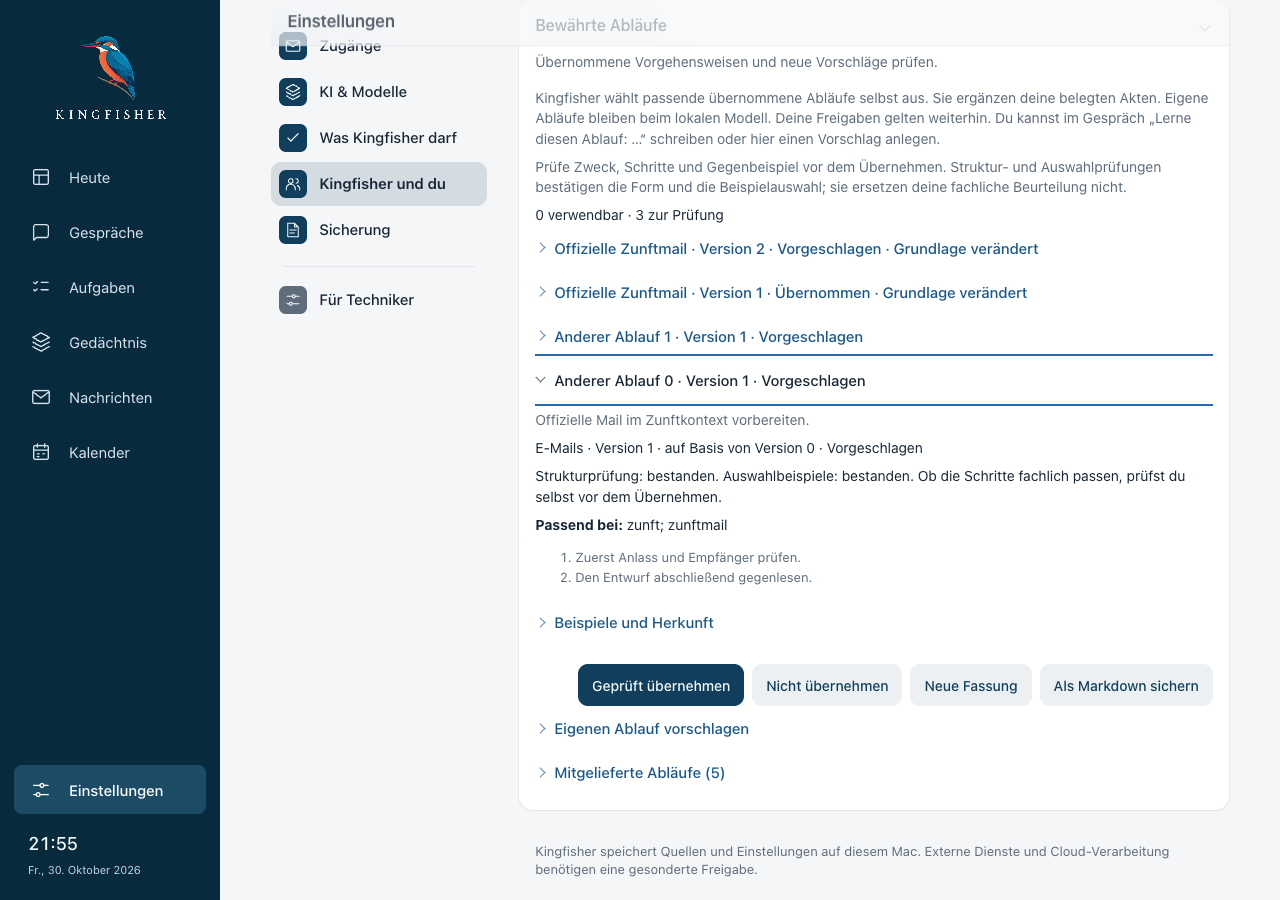
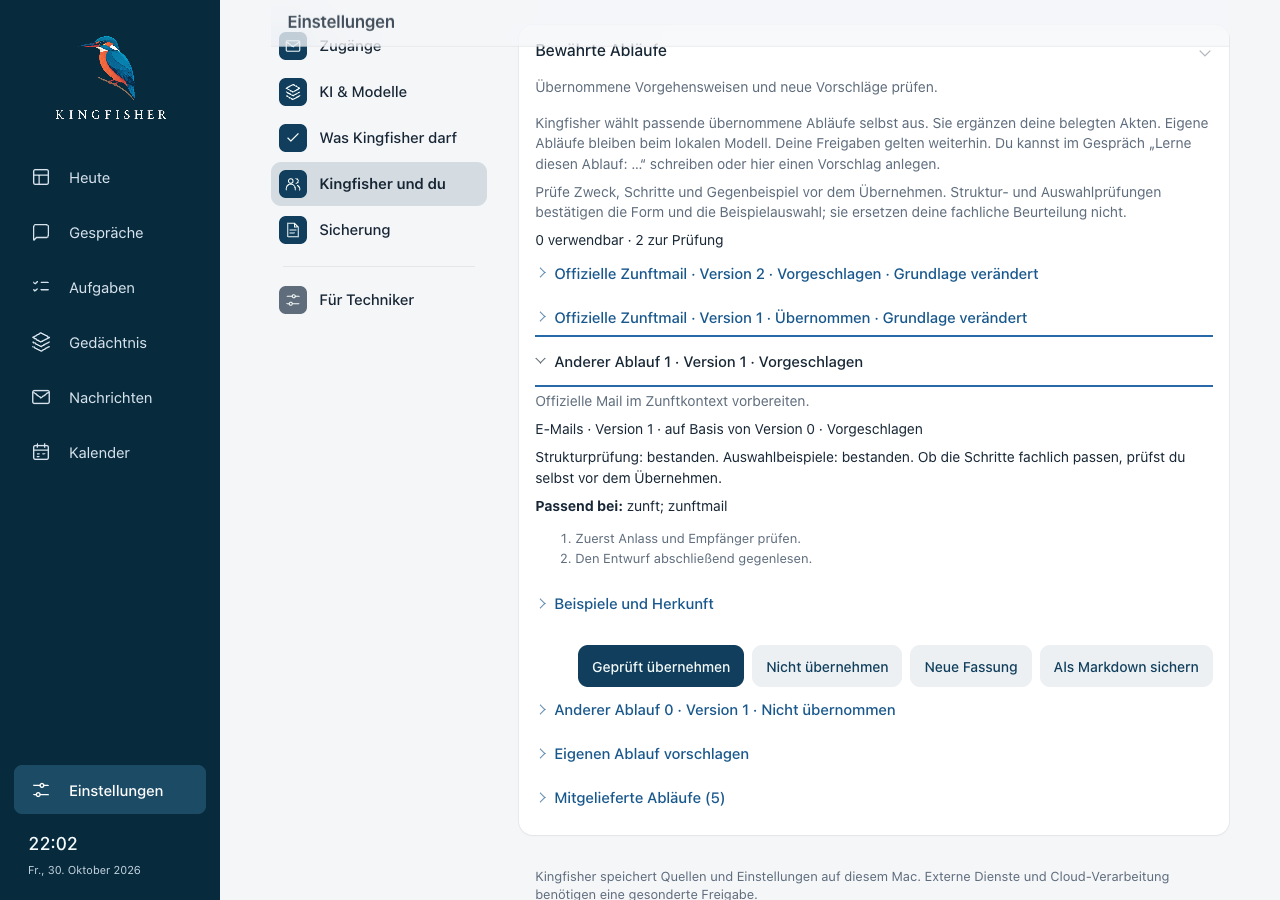
Direkten Prüfweg und unabhängige Korrektur belegen

diff --git a/docs/runs/2026-10-30-procedure-review-link/README.md b/docs/runs/2026-10-30-procedure-review-link/README.md
@@ -10,7 +10,7 @@ Basis: `bb94507493efab70d8835593069ac3a73d366823` (PR #103, inzwischen gemergt).
 
 - Tatsächliche FastAPI-App und gebautes React-Frontend, ausschließlich künstlicher Bestand auf `127.0.0.1:8893`. Persönliches Kingfisher auf Port 8890 blieb unberührt. Synthetischer Provider; keine Qualitätsbehauptung über Qwen oder echte Mails.
 - Vorher: Gesprächsknopf führte nur zur Bibliothek, alle drei Vorschläge waren geschlossen. Sechs neue Regressionsprüfungen zunächst rot; danach grün. Weitere Gegenfälle für den erneuten Sprung in die geschlossene Bibliothek und eine verzögerte native Schließmeldung ebenfalls rot→grün.
-- Gesamte Oberfläche: `npm --prefix app/kingfisher test` → **964/964 bestanden** (vorher 955). Produktionsbuild bestanden; bekannte Größenwarnung des Bundlers. `python3 scripts/check_asset_manifest.py` → **11 Dateien, 14 Icons bestanden**. Keine neue Backendvollsuite, weil ausschließlich Oberfläche geändert; PR #103 hat einen getrennten vollständigen Backendnachweis.
+- Gesamte Oberfläche: `npm --prefix app/kingfisher test` → **965/965 bestanden** (vorher 955). Produktionsbuild bestanden; bekannte Größenwarnung des Bundlers. `python3 scripts/check_asset_manifest.py` → **11 Dateien, 14 Icons bestanden**. Keine neue Backendvollsuite, weil ausschließlich Oberfläche geändert; PR #103 hat einen getrennten vollständigen Backendnachweis.
 - Browser: Gespräch → exakter Vorschlag → frische Details → ausdrückliche Übernahme → erneut gelesen „Übernommen“. Rückweg erhält den bereits eingegebenen Gesprächsentwurf.
 - Unbekannte ID öffnet keinen anderen Eintrag und ruft keine unbekannte Detailroute ab. Wechsel zweier IDs auf derselben Einstellungsseite sowie zuvor manuell geschlossene Bibliothek geprüft.
 - Simulierter Detailfehler HTTP 503: sichtbarer Fehler, keine Übernahme möglich; „Erneut laden“ liest die wirkliche Fassung frisch.
@@ -32,6 +32,8 @@ Basis: `bb94507493efab70d8835593069ac3a73d366823` (PR #103, inzwischen gemergt).
 
 Ein unabhängiges Schlussreview der gesamten UI-Änderung (Basis `bb94507`, Kopf `31b1d5f`) fand einen wichtigen Randfall: Wird eine bereits manuell geöffnete Zeile erst nachträglich zum Navigationsziel, wurde ihr alter Detailstand weiter angezeigt. Der Server verhindert eine unzulässige Übernahme weiterhin, aber die Prüfung muss vor der Handlung frisch sein.
 
-Gezielte Regression zunächst **1 statt 2 Detailabrufe**, nach Ergänzung der Zielabhängigkeit grün. Die Prüfung hält die zweite Antwort zurück und belegt zusätzlich: Während des neuen Lesens ist keine Übernahme sichtbar. Alle acht direkten Prüfwegtests bestanden. Keine kritischen oder kleineren Befunde; eine Korrekturrunde, kein zweites Review.
+Gezielte Regression zunächst **1 statt 2 Detailabrufe**, nach Ergänzung der Zielabhängigkeit grün. Die Prüfung hält die zweite Antwort zurück und belegt zusätzlich: Während des neuen Lesens ist keine Übernahme sichtbar. Alle acht direkten Prüfwegtests bestanden. Anschließend im wirklichen Browser wiederholt: Vorschlag manuell öffnen, ihn serverseitig zurückweisen, dieselbe offene Zeile gezielt ansteuern, zweite Antwort anhalten. Zwei Detailabrufe, kein Übernehmen während des Neulesens, danach „Nicht übernommen“ sichtbar. Tastatur, Fokus, beide Fensterbreiten und Konsole auch nach diesem Fix erneut bestanden.
+
+Abschließend geprüfter Produktstand nach Angleich mit `origin/main`: `76b3d92dd3d1a541bb709a82f7cfa1d28d070085`; gesamte UI 965/965, Build und Assetvertrag grün. Keine kritischen oder kleineren Befunde; eine Korrekturrunde, kein zweites Review.
 
 Abgegrenzte Abnahmen: Das Review bewertet nicht den echten Mac, reale Quellen oder die Alltagswoche. Die bereits vorhandene Entwurfsbehandlung des allgemeinen Vorlageneditors wurde nicht umgebaut; dieser Schritt belegt den Gesprächsentwurf beim Rückweg und die direkte Vorschlagsprüfung, keinen allgemeinen Editor-Umbau.

diff --git a/docs/superpowers/plans/2026-10-30-procedure-review-link.md b/docs/superpowers/plans/2026-10-30-procedure-review-link.md
@@ -29,8 +29,8 @@
 Files: `app/kingfisher/src/App.tsx`, `app/kingfisher/src/ProcedureSettings.tsx`, `app/kingfisher/tests/conversation-workspace.test.mjs`, neue `app/kingfisher/tests/procedure-review.test.mjs`, `docs/67-bewaehrte-ablaeufe.md`, `docs/runs/2026-10-30-procedure-review-link/README.md`.
 Interfaces: vorhandene `procedure_proposal.id`, `navigate(path)`, GET `/api/v1/procedures` und GET `/api/v1/procedures/{id}`. Kein neuer Backendvertrag.
 
-- [ ] Regression zuerst: tatsächlicher Gesprächsknopf transportiert kodierte ID; Zielzeile öffnet und lädt Detail, andere Zeilen bleiben geschlossen; fehlende ID zeigt Hinweis; normales Öffnen kompakt. Render-/Navigationsprüfungen im bestehenden Vite-Hook-Teststil, Browsergegenfall vor Änderung.
-- [ ] Run `node --experimental-strip-types --test app/kingfisher/tests/conversation-workspace.test.mjs app/kingfisher/tests/procedure-review.test.mjs`; neue Zielprüfungen müssen rot sein.
-- [ ] URL-Ziel in ProcedureSettings bei Laden und popstate neu lesen. Bestehende ProcedureRow um kontrolliertes Öffnen und Fokus auf die Zielzusammenfassung ergänzen; Detail-/Quellen-/Bestätigungsprüfungen wiederverwenden.
-- [ ] Gesamte UI-Suite, Produktionsbuild und Assetvertrag. Reale Browserinteraktion bei 900/1.280 px: Gespräch→Vorschlag→Details→bestätigen→Rückweg mit Entwurf; unbekanntes Ziel, Fehler beim Detailladen und Wechsel zwischen Zielen prüfen. Keine Konsolenfehler/Überläufe.
-- [ ] Ein unabhängiges Review, wichtige Befunde einmal mit Rot/Grün beheben; Nachweis und eigener PR. Backendvollsuite nicht erneut ausführen, solange kein Backendcode geändert wird.
+- [x] Regression zuerst: tatsächlicher Gesprächsknopf transportiert kodierte ID; Zielzeile öffnet und lädt Detail, andere Zeilen bleiben geschlossen; fehlende ID zeigt Hinweis; normales Öffnen kompakt. Render-/Navigationsprüfungen im bestehenden Vite-Hook-Teststil, Browsergegenfall vor Änderung.
+- [x] Run `node --experimental-strip-types --test app/kingfisher/tests/conversation-workspace.test.mjs app/kingfisher/tests/procedure-review.test.mjs`; neue Zielprüfungen müssen rot sein.
+- [x] URL-Ziel in ProcedureSettings bei Laden und popstate neu lesen. Bestehende ProcedureRow um kontrolliertes Öffnen und Fokus auf die Zielzusammenfassung ergänzen; Detail-/Quellen-/Bestätigungsprüfungen wiederverwenden.
+- [x] Gesamte UI-Suite, Produktionsbuild und Assetvertrag. Reale Browserinteraktion bei 900/1.280 px: Gespräch→Vorschlag→Details→bestätigen→Rückweg mit Entwurf; unbekanntes Ziel, Fehler beim Detailladen und Wechsel zwischen Zielen prüfen. Keine Konsolenfehler/Überläufe.
+- [x] Ein unabhängiges Review, wichtige Befunde einmal mit Rot/Grün beheben; Nachweis und eigener PR. Backendvollsuite nicht erneut ausführen, solange kein Backendcode geändert wird.

diff --git a/docs/68-gedaechtnis-abschluss.md b/docs/68-gedaechtnis-abschluss.md
@@ -77,6 +77,12 @@ Umgesetzter begrenzter Reparaturschritt: dauerhafte, ausdrücklich formulierte
 Ablaufkorrekturen ohne feste Befehlsform erkennen und bereits offene passende
 Lernvorschläge mitfinden. Keine neue Ansicht, Modellrolle oder Lernberechtigung:
 [Prüfungen und Grenzen](runs/2026-10-30-procedure-corrections/README.md).
-Als nächster konkreter Bedienpunkt soll „Ablauf prüfen“ den betreffenden
-Vorschlag direkt öffnen. Modelllauf, echte Quellenprobe und Mac-Fenster bleiben
-gesonderte Abnahmen.
+Der direkte Bedienweg „Ablauf prüfen“ öffnet jetzt den genau bezeichneten
+Vorschlag mit frisch gelesenen Schritten und erhaltener Gesprächseingabe beim
+Rückweg: [UI-Nachweis und Review](runs/2026-10-30-procedure-review-link/README.md).
+Modelllauf, echte Quellenprobe und Mac-Fenster bleiben gesonderte Abnahmen.
+Eine lesende Nachkontrolle am Abend fand den persönlichen Hintergrund global
+pausiert (beide Postfächer eingerichtet); nichts fortgesetzt. Mac-Speicherdruck
+Stufe 2 und 43 Prozent freie Systemreserve genügen noch nicht für den zuvor
+festgelegten sicheren Wiederanlauf (Stufe 1, mindestens 48 Prozent stabile Reserve).
+Die eigenen Browserprüfungen werden beendet; keine fremden Programme schließen.
